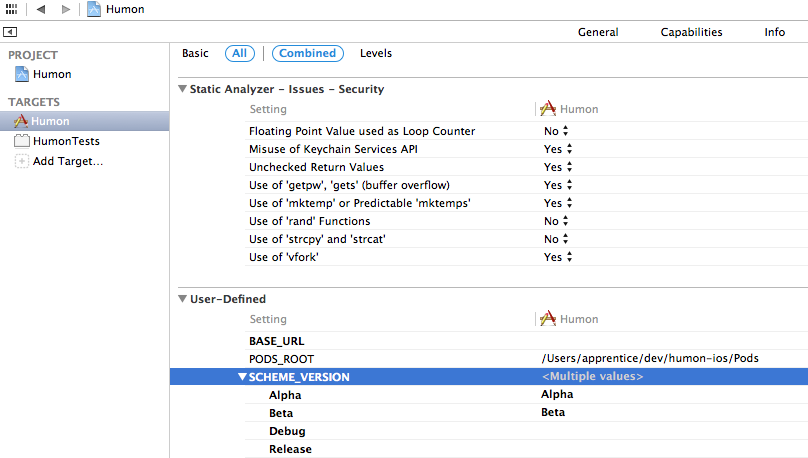
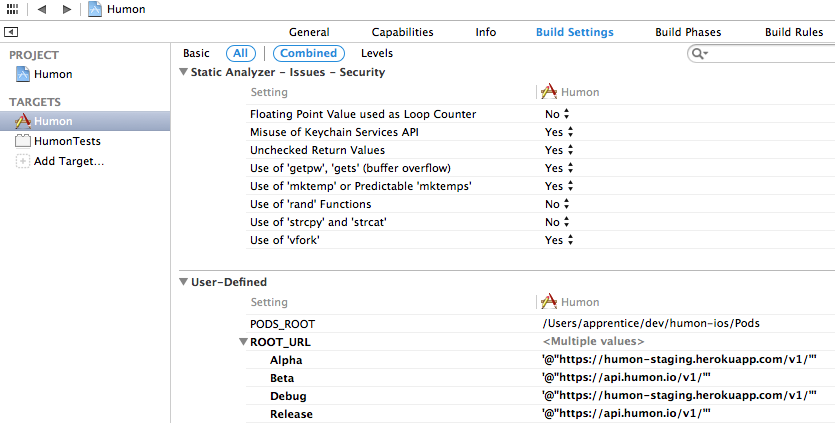
Add preprocessor macros

Changed region(s): [[0.0, 0.0, 1.0, 0.5839], [0.1856, 0.6147, 1.0, 1.0], [0.6498, 0.1844, 0.7426, 0.5839]]

diff --git a/book/iOS/alpha_and_beta.md b/book/iOS/alpha_and_beta.md
@@ -14,7 +14,7 @@ Setting these manually is perfectly fine as well, but keeping separate configura
 
 	![Create the new configuration](images/ios_alpha_and_beta_1.png)
 
-    Create a new configuration that's a duplicate of release, and call this new configuration Beta.
+    Select the Humon project and create a new configuration that's a duplicate of release, and call this new configuration Beta.
 	
 2. **Create the new scheme**
 
@@ -25,25 +25,21 @@ Setting these manually is perfectly fine as well, but keeping separate configura
 	![Set the scheme's build configuration](images/ios_alpha_and_beta_3.png)
 	
 	Set this scheme's run build configuration and archive build configuration to Beta.)
-   
-3. **Create user-defined settings**
 
-	![Create user-defined settings](images/ios_alpha_and_beta_4.png)
-
-    Create a user-defined setting in the Humon target's build settings. In Xcode 5 this can be found under Editor > Add Build Setting.
-    
-    Call the new user-defined setting SCHEME_VERSION and set it to Beta for the Beta configuration.
-	
-	Additionally, create a BASE_URL user-defined setting and set its value as your production URL for the release configuration and your staging URL for all the other configurations.
-
-4. **Automate the bundle identifier and display name**
+3. **Automate the bundle identifier and display name**
 
 	![Automate the bundle identifier and display name](images/ios_alpha_and_beta_5.png)
 
-	Change the Bundle identifier and the Bundle display name to include the ${SCHEME_VERSION} value.
+	Under "Info", change the Bundle identifier and the Bundle display name to include `${CONFIGURATION}`. `${CONFIGURATION}` evaluates to the name of the current build configuration.
    
 	Now the name of the Beta app will display as HumonBeta and the bundle identifier will be com.thoughtbot.HumonBeta.
+	
+4. **Use the user-defined setting in a pre-processor macro.**
 
+	![Use the ROOT_URL in a pre-processor macro](images/ios_alpha_and_beta_6.png)
+	
+	Under "Build Settings", search for preprocessor macros and add `ROOT_URL='@"yourProductionURL"'` to the release and Beta configurations and `ROOT_URL='@"yourStagingURL"'` for debug and Alpha configurations.
+	
 5. **Build the app using the new scheme.**
 
-	The app's name should display as HumonBeta if everything has been configured correctly. In addition, you can use BASE_URL instead of a string literal everywhere you want to confitionally use your staging or production base URL.
+	The app's name should display as HumonBeta if everything has been configured correctly. In addition, you can now use `ROOT_URL` instead of a string literal everywhere you want to conditionally use your staging or production base URL.
